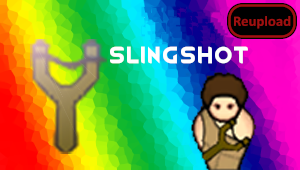
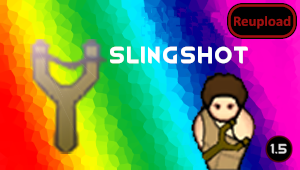
Mod updated for 1.5 and passed autotests

Changed region(s): [[0.87, 0.7941, 0.99, 0.9706]]

diff --git a/README.md b/README.md
@@ -44,11 +44,13 @@ It can be made in ElectricSmithy, FueledSmithy, CraftingSpot. Only costs 15 Wood
 
 -  See if the the error persists if you just have this mod and its requirements active.
 -  If not, try adding your other mods until it happens again.
--  Post your error-log using https://steamcommunity.com/workshop/filedetails/?id=818773962]HugsLib and command Ctrl+F12
+-  Post your error-log using https://steamcommunity.com/workshop/filedetails/?id=818773962]HugsLib or the standalone https://steamcommunity.com/sharedfiles/filedetails/?id=2873415404]Uploader and command Ctrl+F12
 -  For best support, please use the Discord-channel for error-reporting.
 -  Do not report errors by making a discussion-thread, I get no notification of that.
 -  If you have the solution for a problem, please post it to the GitHub repository.
+-  Use https://github.com/RimSort/RimSort/releases/latest]RimSort to sort your mods
 
 
 
+https://steamcommunity.com/sharedfiles/filedetails/changelog/2400783142]![Image](https://img.shields.io/github/v/release/emipa606/SimpleSlingshot?label=latest%20version&style=plastic&color=9f1111&labelColor=black)
 
